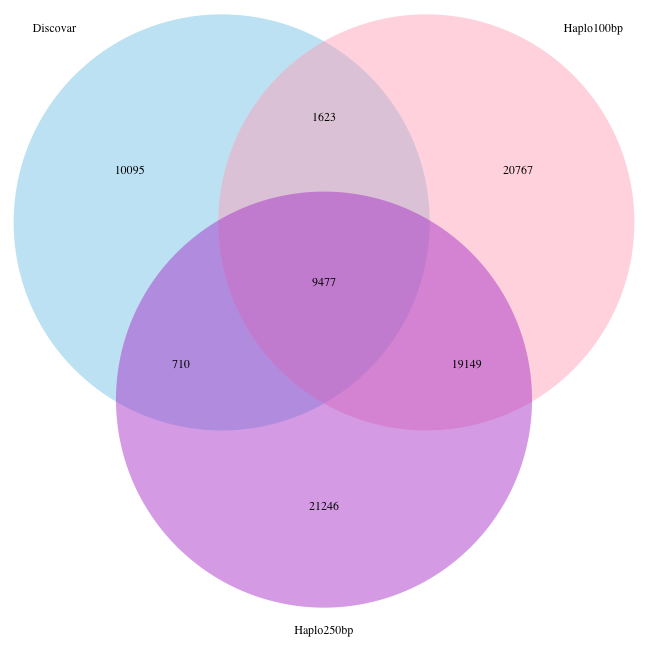
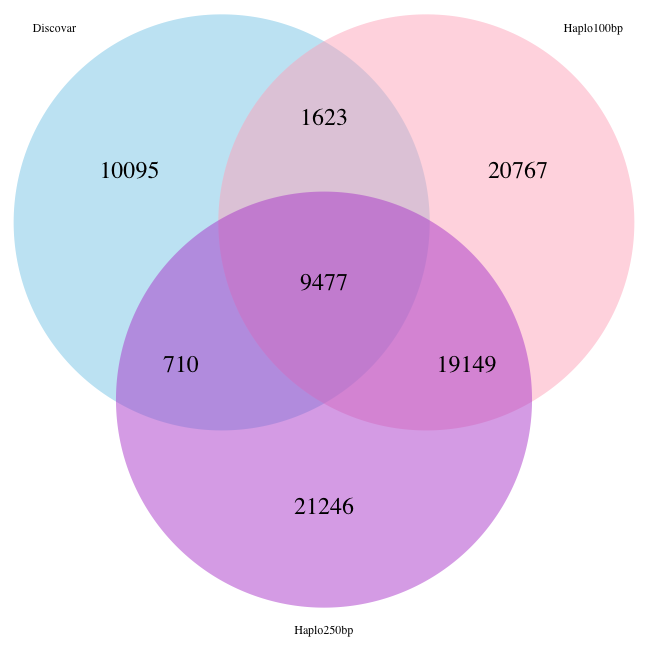
3 way venn rmd

diff --git a/reports/160425_3wayVenn/3wayVenn.md b/reports/160425_3wayVenn/3wayVenn.md
@@ -22,13 +22,13 @@ a3 = icnt['001']+icnt['011']+icnt['111']+icnt['101']
 draw.triple.venn(area1 = a1, area2 = a2, area3 = a3, 
                  n12 = icnt['110']+icnt['111'], n23 = icnt['011']+icnt['111'], n13 = icnt['101']+icnt['111'], 
                  n123 = icnt['111'], category = c("Discovar", "Haplo100bp", "Haplo250bp"), lty = "blank", 
-                 fill = c("skyblue", "pink1", "mediumorchid"),euler.d=T,cex=3)
+                 fill = c("skyblue", "pink1", "mediumorchid"),euler.d=T,cex=2)
 ```
 
 ![plot of chunk unnamed-chunk-2](figure/unnamed-chunk-2-1.png)
 
 ```
-## (polygon[GRID.polygon.171], polygon[GRID.polygon.172], polygon[GRID.polygon.173], polygon[GRID.polygon.174], polygon[GRID.polygon.175], polygon[GRID.polygon.176], text[GRID.text.177], text[GRID.text.178], text[GRID.text.179], text[GRID.text.180], text[GRID.text.181], text[GRID.text.182], text[GRID.text.183], text[GRID.text.184], text[GRID.text.185], text[GRID.text.186])
+## (polygon[GRID.polygon.203], polygon[GRID.polygon.204], polygon[GRID.polygon.205], polygon[GRID.polygon.206], polygon[GRID.polygon.207], polygon[GRID.polygon.208], text[GRID.text.209], text[GRID.text.210], text[GRID.text.211], text[GRID.text.212], text[GRID.text.213], text[GRID.text.214], text[GRID.text.215], text[GRID.text.216], text[GRID.text.217], text[GRID.text.218])
 ```
 
 SNP counts, disco/haplo100/haplo250
@@ -45,11 +45,11 @@ a3 = scnt['001']+scnt['011']+scnt['111']+scnt['101']
 draw.triple.venn(area1 = a1, area2 = a2, area3 = a3, 
                  n12 = scnt['110']+scnt['111'], n23 = scnt['011']+scnt['111'], n13 = scnt['101']+scnt['111'], 
                  n123 = scnt['111'], category = c("Discovar", "Haplo100bp", "Haplo250bp"), lty = "blank", 
-                 fill = c("skyblue", "pink1", "mediumorchid"))
+                 fill = c("skyblue", "pink1", "mediumorchid"),euler.d=T,cex=2)
 ```
 
 ![plot of chunk unnamed-chunk-3](figure/unnamed-chunk-3-1.png)
 
 ```
-## (polygon[GRID.polygon.187], polygon[GRID.polygon.188], polygon[GRID.polygon.189], polygon[GRID.polygon.190], polygon[GRID.polygon.191], polygon[GRID.polygon.192], text[GRID.text.193], text[GRID.text.194], text[GRID.text.195], text[GRID.text.196], text[GRID.text.197], text[GRID.text.198], text[GRID.text.199], text[GRID.text.200], text[GRID.text.201], text[GRID.text.202])
+## (polygon[GRID.polygon.219], polygon[GRID.polygon.220], polygon[GRID.polygon.221], polygon[GRID.polygon.222], polygon[GRID.polygon.223], polygon[GRID.polygon.224], text[GRID.text.225], text[GRID.text.226], text[GRID.text.227], text[GRID.text.228], text[GRID.text.229], text[GRID.text.230], text[GRID.text.231], text[GRID.text.232], text[GRID.text.233], text[GRID.text.234])
 ```
